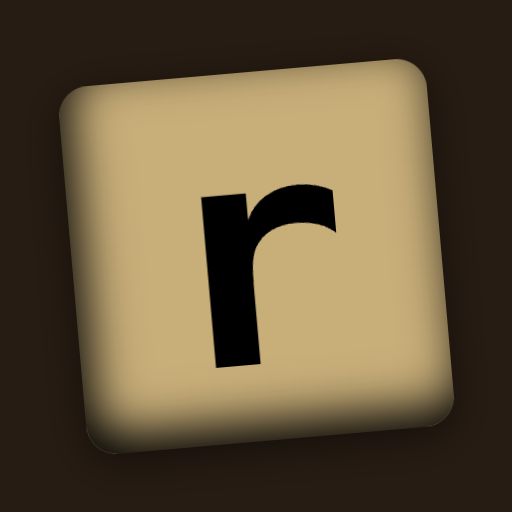
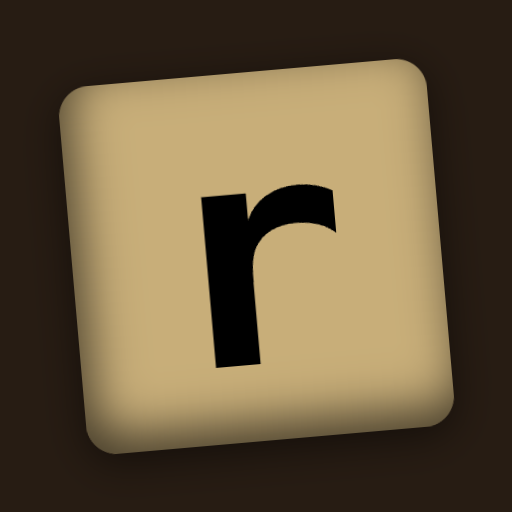
Ease the bevel off black, and scatter the 444dle tiles
Opaque was too far. It also exposed a seam: Chrome antialiases the
background's rounded rect and the inset shadow's slightly differently, so
the boundary pixel keeps a sliver of undarkened face. Against black that
sliver reads as a bright hairline down the bottom-left corner, measurably
21 levels brighter than the shadow inside it. It fades with the shadow —
gone by 0.65, which still sits a third deeper than the 0.45 we had.

The three tiles sat in a mirror-symmetric triangle, which reads as
geometry rather than tiles dropped on a table. Each one now carries a
nudge off the grid, cancelling out so the mark stays centred, and no two
sides of the triangle are the same length.

Changed region(s): [[0.0938, 0.1562, 0.9062, 0.9062]]

diff --git a/scripts/icons/main.ts b/scripts/icons/main.ts
@@ -3,6 +3,9 @@ import styles from "./icons.module.css";
 interface Tile {
   char: string;
   lie: number;
+  /** Nudge off the grid, as a fraction of one tile. */
+  dx?: number;
+  dy?: number;
 }
 
 interface Art {
@@ -23,10 +26,10 @@ const ART: Record<string, Art> = {
     gap: 0.22,
     rows: [
       [
-        { char: "4", lie: -5 },
-        { char: "4", lie: -1 },
+        { char: "4", lie: -6, dx: -0.08, dy: 0.04 },
+        { char: "4", lie: 0, dy: -0.05 },
       ],
-      [{ char: "4", lie: 3 }],
+      [{ char: "4", lie: 4, dx: 0.09, dy: 0.02 }],
     ],
   },
 };
@@ -48,10 +51,11 @@ canvas.style.setProperty(
 for (const tiles of art.rows) {
   const row = document.createElement("div");
   row.className = styles.row;
-  for (const { char, lie } of tiles) {
+  for (const { char, lie, dx, dy } of tiles) {
     const tile = document.createElement("div");
     tile.className = styles.tile;
     tile.style.setProperty("--lie", `${lie}deg`);
+    tile.style.translate = `${(dx ?? 0) * 100}% ${(dy ?? 0) * 100}%`;
     tile.textContent = char;
     row.append(tile);
   }

diff --git a/src/routes/game/tile.module.css b/src/routes/game/tile.module.css
@@ -2,7 +2,7 @@
   --tile-shade: calc(var(--tile-size) / 40);
   --tile-radius: calc(var(--tile-size) / 12);
   --tile-bevel: var(--tile-shade) calc(var(--tile-shade) * -2)
-    calc(var(--tile-shade) * 5) inset black;
+    calc(var(--tile-shade) * 5) inset rgb(0 0 0 / 0.65);
   --tile-wood: rgb(200, 174, 121);
   --tile-face: var(--tile-wood);
 }
